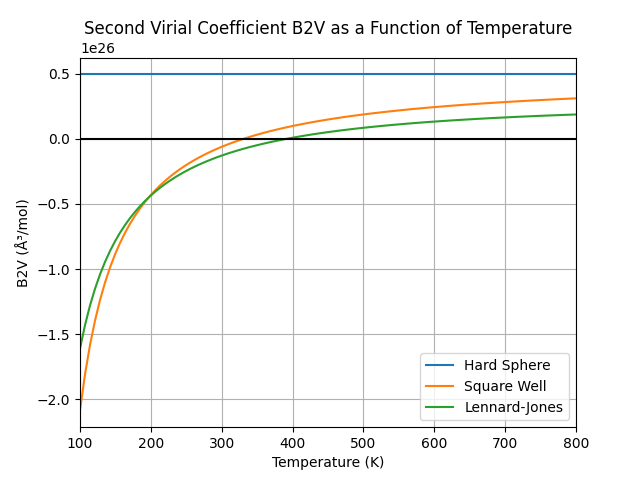
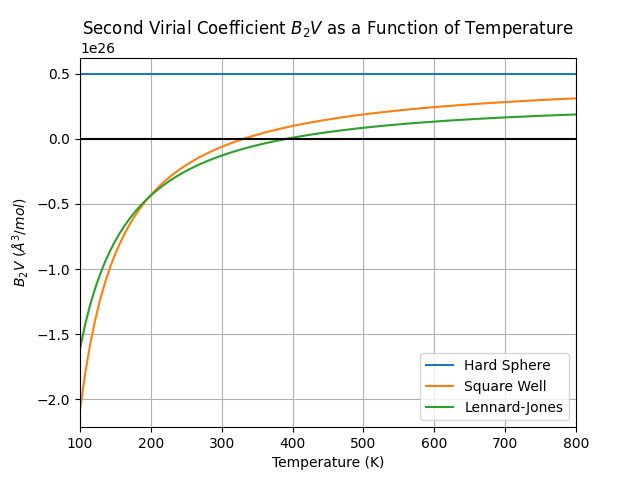
HW2-2 Rough Draft (2)

Changed region(s): [[0.125, 0.0312, 0.9062, 0.0938], [0.0, 0.4062, 0.0625, 0.5938]]

diff --git a/homework-2-2/compute_b2v.py b/homework-2-2/compute_b2v.py
@@ -6,7 +6,7 @@ from scipy.integrate import trapezoid
 #For sigma: 3.4 Angstroms = 3.4E-10 meters
 sigma = 3.4
 k_b = 8.617E-5      #eV/k
-N_a = 6.022E23
+N_a = 6.022E23      #Avogadros number
 #1. Hard Sphere Potential
 def hard_sphere(r, sigma=3.4):
     """Calculates the hard sphere potential. 
@@ -105,9 +105,9 @@ plt.plot(temperatures, B2V_hard_sphere, label='Hard Sphere')
 plt.plot(temperatures, B2V_square_well, label='Square Well')
 plt.plot(temperatures, B2V_lennard_jones, label='Lennard-Jones')
 plt.axhline(0, color='black')
-plt.title('Second Virial Coefficient B2V as a Function of Temperature')
+plt.title('Second Virial Coefficient $B_2V$ as a Function of Temperature')
 plt.xlabel('Temperature (K)')
-plt.ylabel('B2V (Å³/mol)')
+plt.ylabel('$B_2V$ ($Å^3/mol$)')
 plt.legend()
 plt.grid()
 plt.xlim(100, 800)
